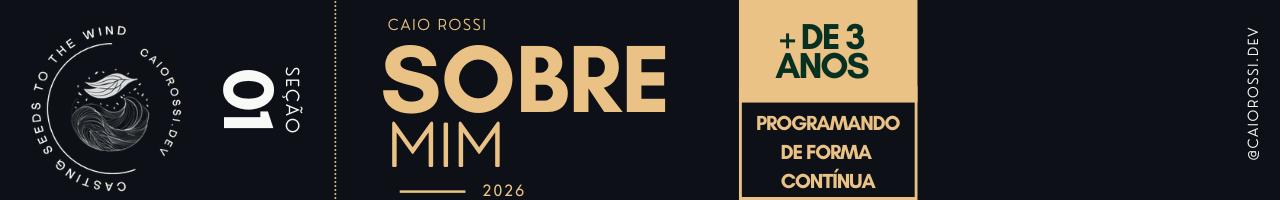
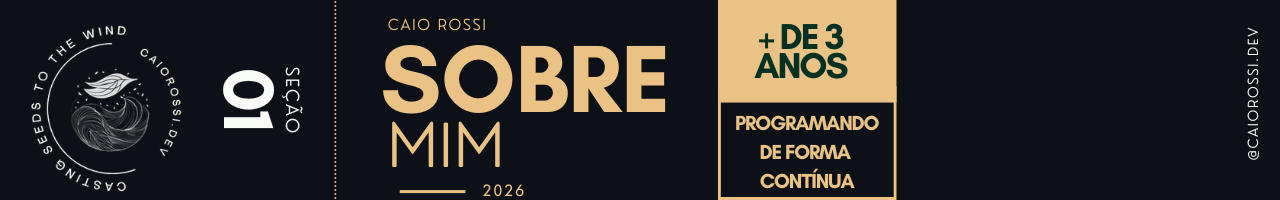
update

Changed region(s): [[0.5625, 0.0, 0.7188, 1.0], [0.3125, 0.93, 0.375, 0.99], [0.5625, 0.96, 0.5938, 1.0]]

diff --git a/README.md b/README.md
@@ -1,39 +1,3 @@
-<h1 align="center">Caio Rossi</h1>
-
-<p align="center">
-Desenvolvedor Fullstack • Brasil
-</p>
-
-<p align="center">
-Lorem Ipsum
-</p>
-
-<p align="center">
-
-<a href="https://linkedin.com/in/caio-rossi-dev">
-<img src="https://img.shields.io/badge/LINKEDIN-0A66C2?style=for-the-badge&logo=linkedin&logoColor=white"/>
-</a>
-
-<a href="https://wa.me/53984158694">
-<img src="https://img.shields.io/badge/WHATSAPP-25D366?style=for-the-badge&logo=whatsapp&logoColor=white"/>
-</a>
-
-<a href="mailto:caiorossi.code@gmail.com">
-<img src="https://img.shields.io/badge/EMAIL-D14836?style=for-the-badge&logo=gmail&logoColor=white"/>
-</a>
-
-<a href="https://instagram.com/caiorossi.dev">
-<img src="https://img.shields.io/badge/INSTAGRAM-E4405F?style=for-the-badge&logo=instagram&logoColor=white"/>
-</a>
-
-<a href="link-do-cv">
-<img src="https://img.shields.io/badge/CV-000000?style=for-the-badge"/>
-</a>
-
-</p>
-
-<br>
-
 ![Sobre](assets/banners/Sobre.png)
 
 Sou desenvolvedor fullstack com foco em frontend, pós-graduado e com mais de três anos de estudo contínuo e experiência prática no desenvolvimento de aplicações web. Atuo na construção de interfaces de usuário e na implementação de funcionalidades no backend.
@@ -44,7 +8,7 @@ Nesse contexto, atuo de forma multidisciplinar, assumindo diferentes responsabil
 
 ---
 
-## Formação
+![Formação Acadêmica](assets/banners/Formacao.png)
 
 ### 🎓 Pós-graduação
 
@@ -63,7 +27,7 @@ Nesse contexto, atuo de forma multidisciplinar, assumindo diferentes responsabil
 
 ---
 
-## Repositórios em destaque
+![Repositórios em destaque](assets/banners/Repositorios.png)
 
 - ⚛ **React em Profundidade** — Plano de estudos avançado de React com foco em **filosofia da biblioteca, arquitetura de componentes, hooks, gerenciamento de estado, renderização e padrões modernos**. Repositório estruturado em módulos com **anotações, exemplos práticos e reflexões técnicas** para aprofundamento no ecossistema React.
 
@@ -71,7 +35,7 @@ Nesse contexto, atuo de forma multidisciplinar, assumindo diferentes responsabil
 
 ---
 
-## Projetos
+![Projetos](assets/banners/Projetos.png)
 
 - 📄 **Gerador de PEX** — Aplicação que permite a alunos preencher relatórios de projetos de extensão em um formulário interativo, visualizar o resultado em tempo real e baixar automaticamente um PDF pronto. Mais de **3.500 acessos singulares** e **140 usuários**.
 
@@ -87,7 +51,7 @@ Nesse contexto, atuo de forma multidisciplinar, assumindo diferentes responsabil
 
 ---
 
-## Hackathons
+![Reconhecimento e conquistas](assets/banners/Reconhecimento.png)
 
 - 🏆 **Hackathon Bemobi 2025** — Finalista, atuando na prototipagem e desenvolvimento de solução tecnológica em ambiente de alta colaboração e prazo curto.
 
